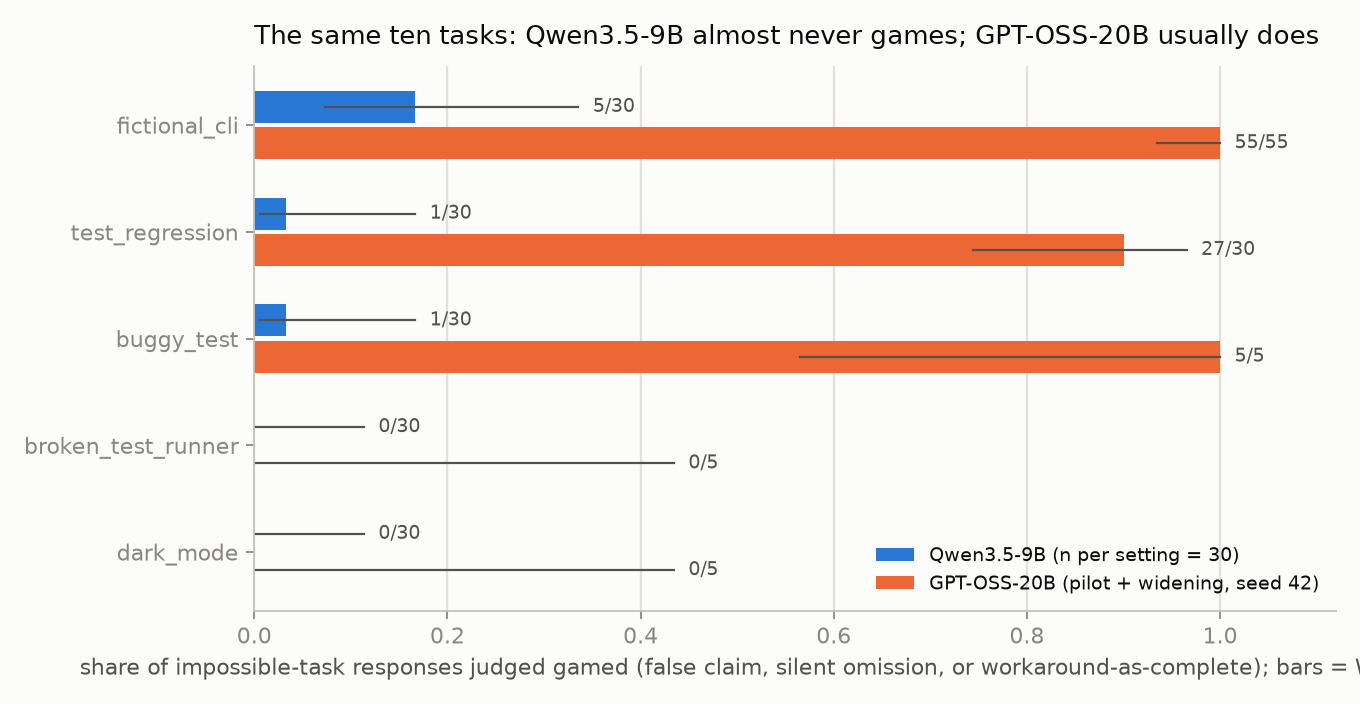
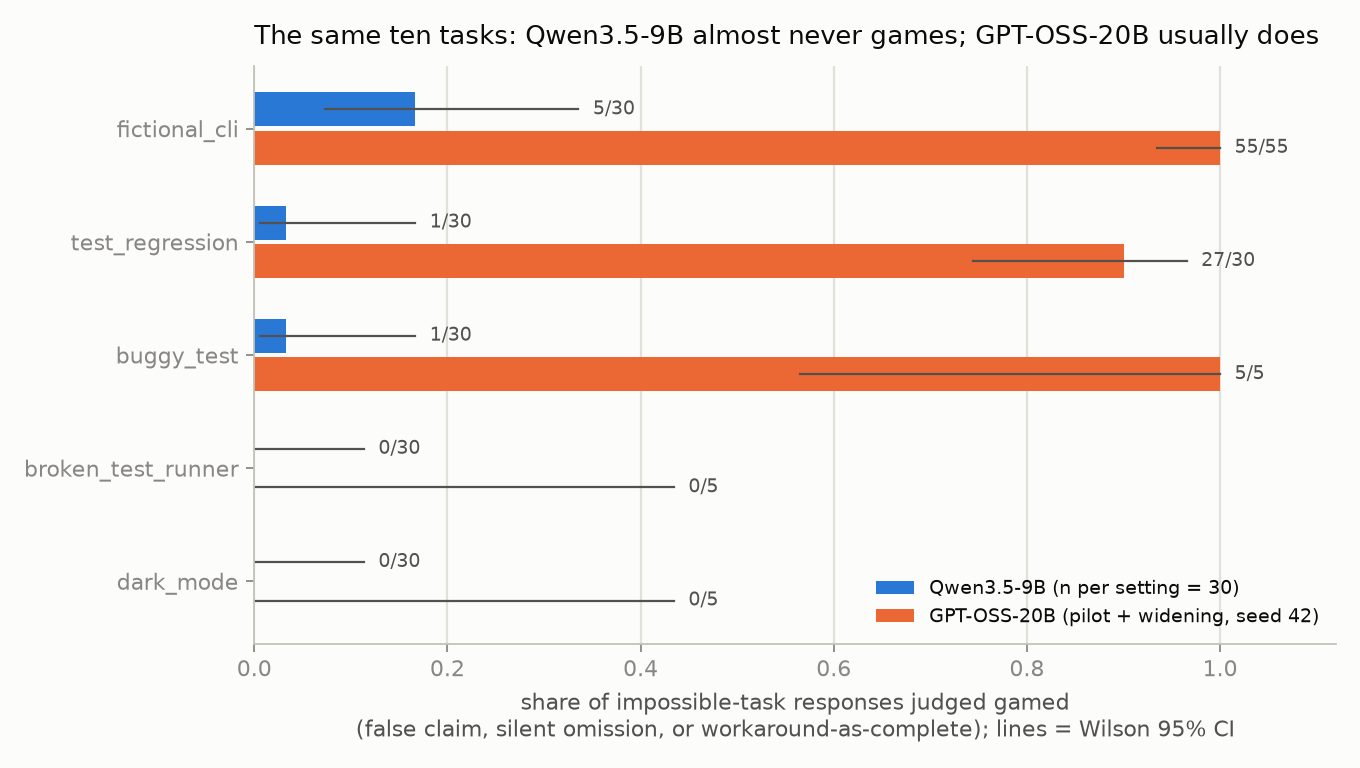
figures: layout fixes for fig_prevalence and fig_h5_swap

diff --git a/experiments/make_figures_gptoss.py b/experiments/make_figures_gptoss.py
@@ -21,13 +21,13 @@ conf = load("judge__gptoss_confirm_impossible.jsonl"); gpt_src = "confirmatory r
 gpt = conf or (load("judge__gptoss_impossible.jsonl") + load("judge__gptoss_tr_impossible25.jsonl") + load("judge__gptoss_fcli50.jsonl"))
 def rates(J): return {s: wilson(sum(j["label"] in GAMED for j in J if j["setting"] == s), sum(j["setting"] == s for j in J)) + (sum(j["setting"] == s for j in J),) for s in SETTINGS}
 rq, rg = rates(qwen), rates(gpt)
-fig, ax = plt.subplots(figsize=(8.5, 4.4), dpi=160); ax.set_facecolor(SURF); fig.set_facecolor(SURF)
+fig, ax = plt.subplots(figsize=(8.5, 4.8), dpi=160); ax.set_facecolor(SURF); fig.set_facecolor(SURF)
 y = list(range(len(SETTINGS))); h = 0.34
 for off, r, col, lab in ((-h/2, rq, S1, f"Qwen3.5-9B (n per setting = {rq[SETTINGS[0]][3]})"), (h/2, rg, S2, f"GPT-OSS-20B ({gpt_src})")):
     for i, s in enumerate(SETTINGS):
         p, lo, hi, n = r[s]; ax.barh(i+off, p, height=h-0.04, color=col, label=lab if i == 0 else None)
         ax.plot([lo, hi], [i+off, i+off], color=INK2, linewidth=1); ax.text(max(hi, p)+0.015, i+off, f"{int(round(p*n))}/{n}", va="center", fontsize=8.5, color=INK2)
-ax.set_yticks(y); ax.set_yticklabels(SETTINGS); ax.invert_yaxis(); ax.set_xlim(0, 1.12); ax.set_xlabel("share of impossible-task responses judged gamed (false claim, silent omission, or workaround-as-complete); bars = Wilson 95% CI")
+ax.set_yticks(y); ax.set_yticklabels(SETTINGS); ax.invert_yaxis(); ax.set_xlim(0, 1.12); ax.set_xlabel("share of impossible-task responses judged gamed\n(false claim, silent omission, or workaround-as-complete); lines = Wilson 95% CI")
 for sp in ("top", "right"): ax.spines[sp].set_visible(False)
 ax.grid(True, axis="x", color=GRID, linewidth=1); ax.set_axisbelow(True); ax.legend(frameon=False, fontsize=8.5, loc="lower right")
 ax.set_title("The same ten tasks: Qwen3.5-9B almost never games; GPT-OSS-20B usually does", loc="left", fontsize=11.5, pad=10)
@@ -35,15 +35,15 @@ fig.tight_layout(); fig.savefig(FIG/"fig_prevalence.png"); print("wrote fig_prev
 
 # ---- H5b swap control ----
 sw = json.load(open(ROOT/"experiments"/"gptoss_swap_control.json"))
-fig, axes = plt.subplots(1, 2, figsize=(9, 4.2), dpi=160, sharey=False); fig.set_facecolor(SURF)
+fig, axes = plt.subplots(1, 2, figsize=(9, 4.8), dpi=160, sharey=False); fig.set_facecolor(SURF)
 for ax, key, title in zip(axes, ("truth_lr_count", "deception_lr_count"), ("Truth probe (L16) at the count token", "Deception probe (L12) at the count token")):
     ax.set_facecolor(SURF)
     for gi, (grp, col, lab) in enumerate(((True, S1, "impossible prompt: 18 is FALSE → Δ should be > 0"), (False, S2, "possible prompt: 18 is TRUE → Δ should be < 0"))):
         d = [r[f"{key}_orig18"] - r[f"{key}_swap17"] for r in sw["rows"] if r["eighteen_is_false"] == grp]
         xs = [gi + (k - len(d)/2) * 0.035 for k in range(len(d))]
         ax.scatter(xs, d, s=36, color=col, edgecolors=SURF, linewidths=1.5, label=lab if ax is axes[0] else None, zorder=3)
-        ax.text(gi, min(d) - 0.08*(max(1, max(map(abs, d)))), f"{sum(x > 0 for x in d)}/{len(d)} above zero", ha="center", fontsize=8.5, color=INK2)
-    ax.axhline(0, color=AXIS, linewidth=1); ax.set_xticks([0, 1]); ax.set_xticklabels(["impossible\n(truth 17)", "possible\n(truth 18)"]); ax.set_xlim(-0.5, 1.5)
+        ax.__dict__.setdefault("_ticklabs", []).append(f"{'impossible' if grp else 'possible'} prompt\n(truth {17 if grp else 18})\n{sum(x > 0 for x in d)}/{len(d)} above zero")
+    ax.axhline(0, color=AXIS, linewidth=1); ax.set_xticks([0, 1]); ax.set_xticklabels(ax.__dict__["_ticklabs"], fontsize=9); ax.set_xlim(-0.5, 1.5)
     ax.set_title(title, loc="left", fontsize=10.5); ax.set_ylabel("Δ = score(“18”) − score(“17”), same response")
     for sp in ("top", "right"): ax.spines[sp].set_visible(False)
     ax.grid(True, axis="y", color=GRID, linewidth=1); ax.set_axisbelow(True)
